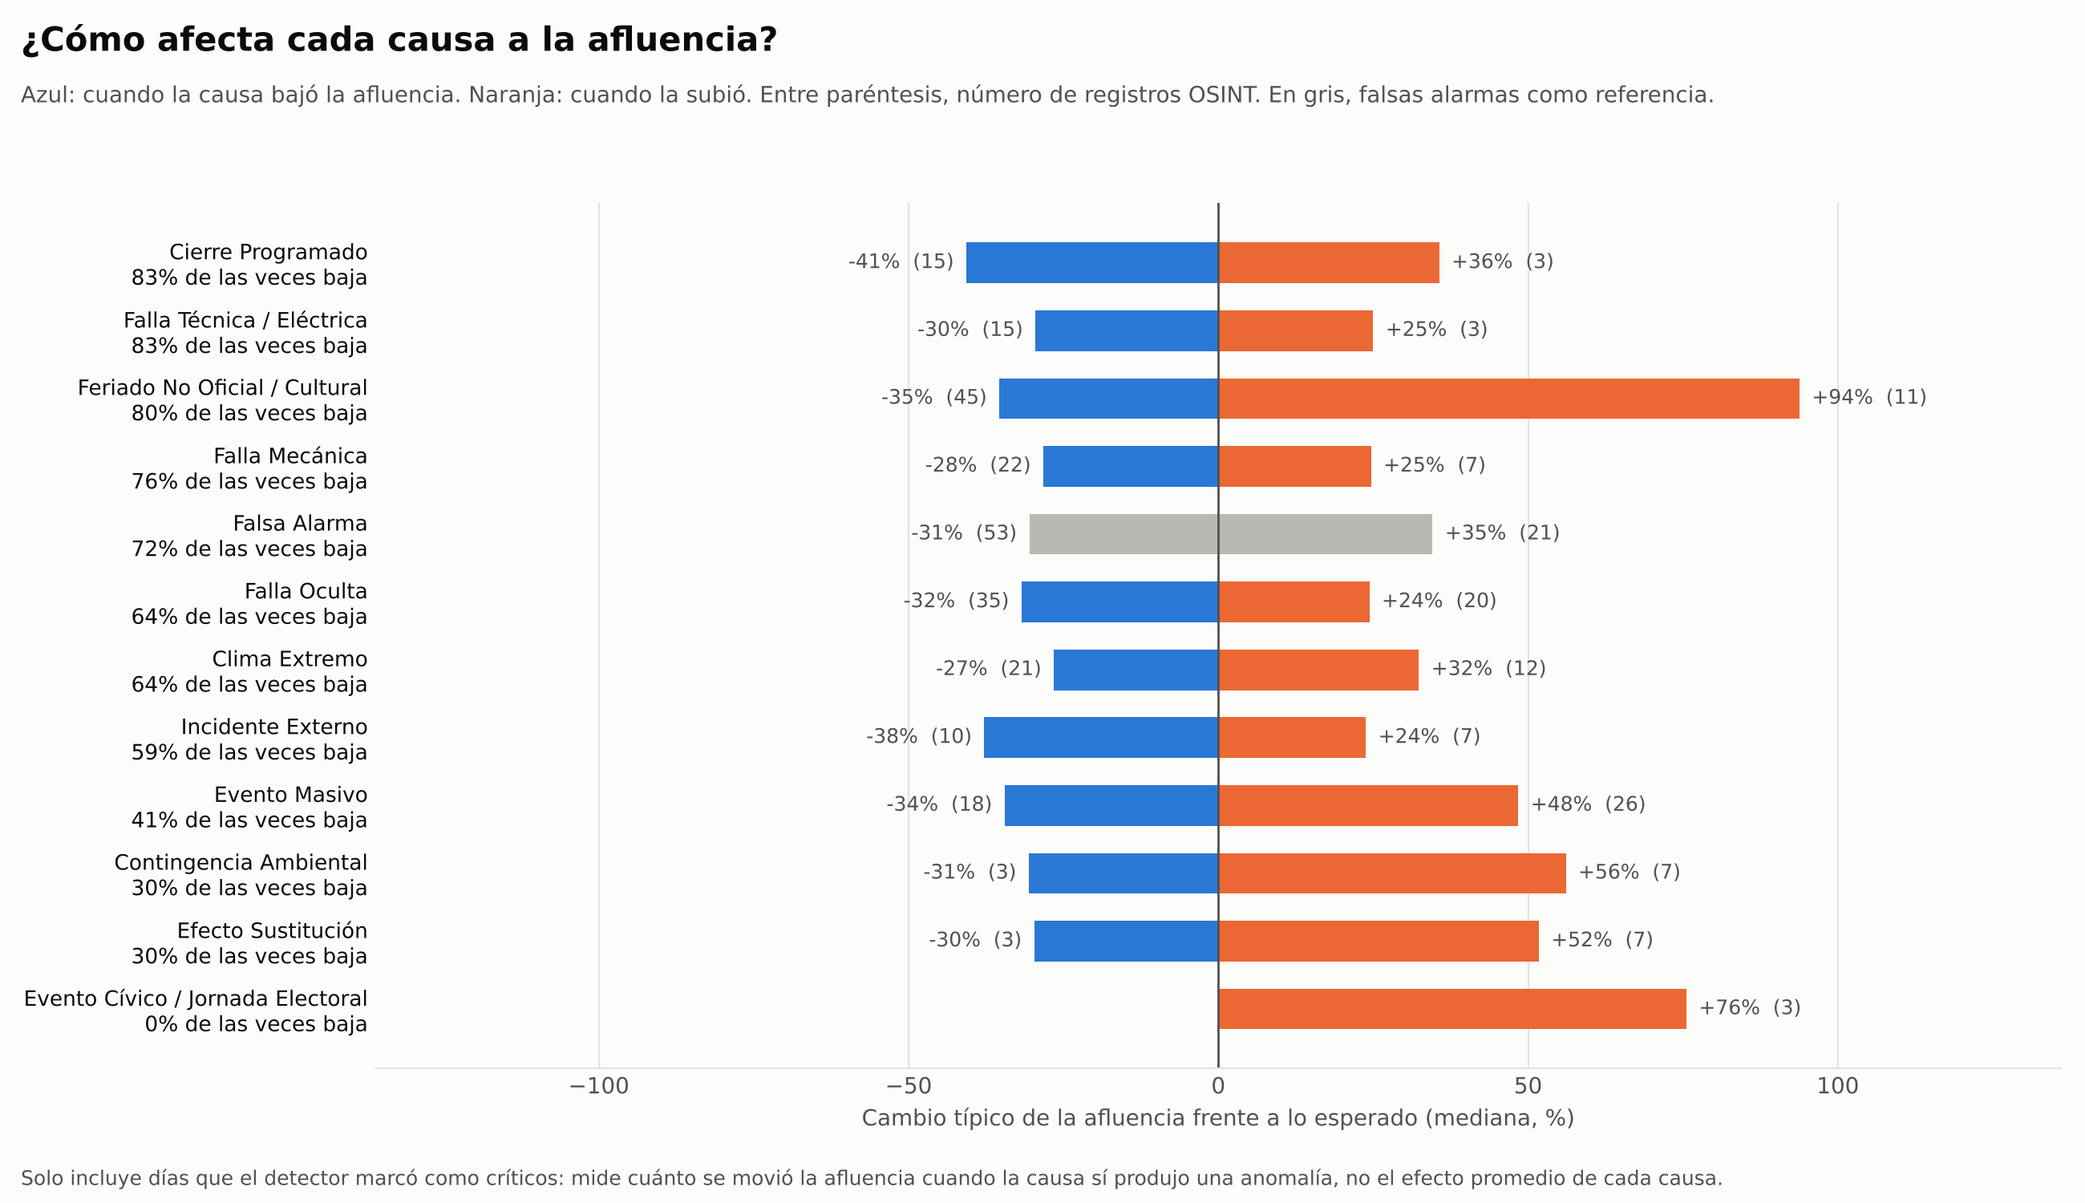
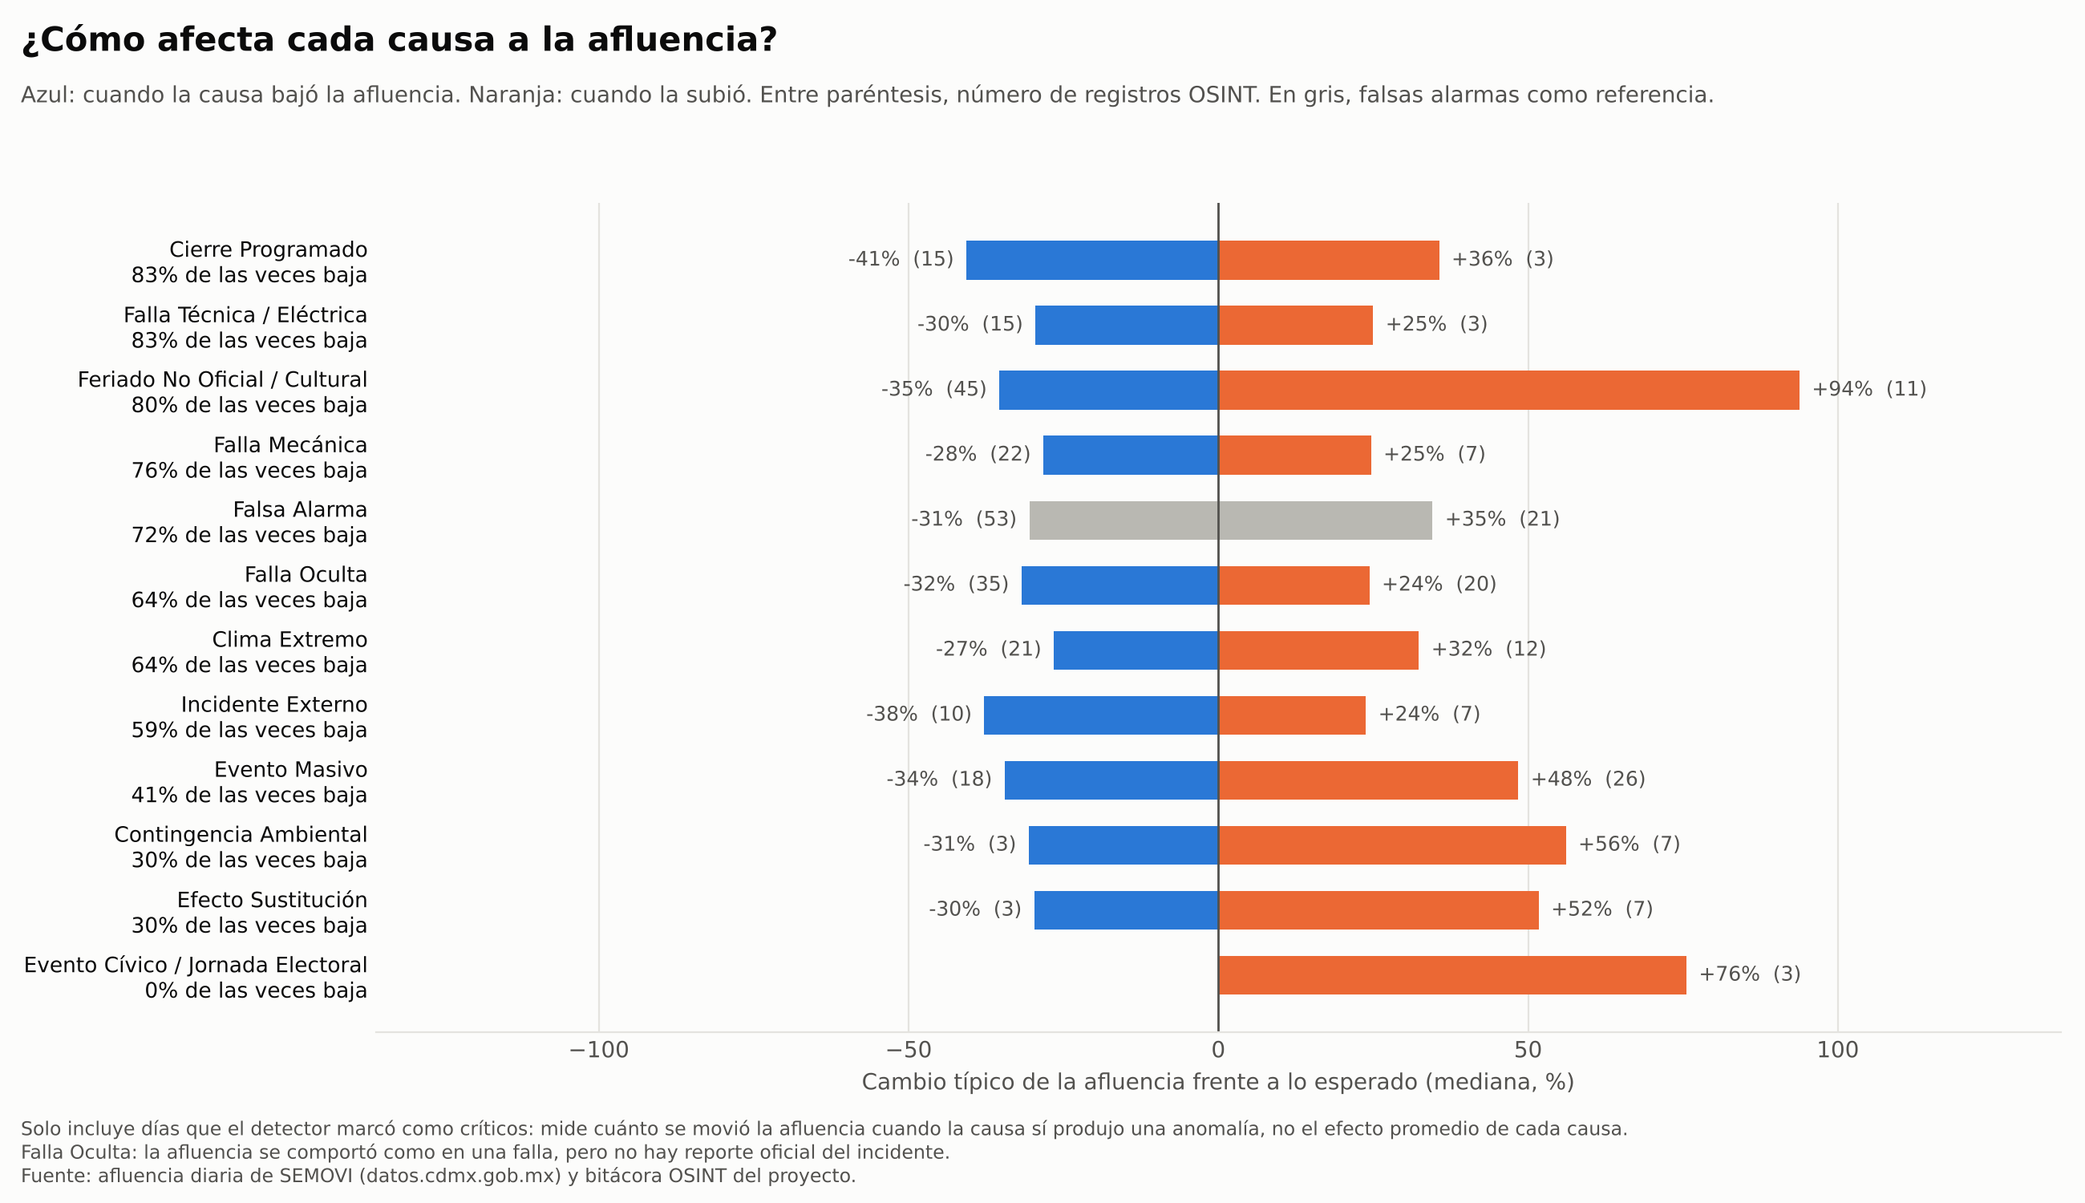
Gráficas: colores de cada línea del Metro y notas para leerlas solas
Las gráficas por línea usan el color de cada línea (la B en verde y gris).
Cada gráfica define en su pie los términos que usa (día crítico, falla
oculta, niveles de riesgo) y la fuente de los datos. La gráfica 05 agrega
la OSINT de la predicción como contraste.

Claude-Session: https://claude.ai/code/session_01TB6ZcTbZgu6jhYpojMa2id

Changed region(s): [[0.0, 0.2453, 0.9346, 1.0], [0.0, 0.184, 0.1869, 0.8587], [0.8723, 0.8587, 0.9035, 0.92]]

diff --git a/estaciones_y_causas/estaciones_y_causas.py b/estaciones_y_causas/estaciones_y_causas.py
@@ -26,6 +26,7 @@ os.makedirs(RES, exist_ok=True)
 
 MASTER = 'master_auditoria_consenso_MAD.csv'
 BITACORA = 'bitacora_investigacion_anomalias_criticas.csv'
+BITACORA_PRED = 'validacion_predicciones/datos/bitacora_validacion_predicciones_final.csv'   # OSINT de los dias en alerta 2026
 TOP_ESTACIONES = 15
 RUIDO = 'Falsa Alarma'   # causa que sirve de referencia: desviaciones sin evento identificado
 
@@ -170,6 +171,9 @@ tipo_causa['pct_de_registros'] = tipo_causa['registros'] / len(osint) * 100
 tipo_causa.round(1).to_csv(f'{RES}/causas_ciclicas_programadas_esporadicas.csv', index=False, encoding='utf-8-sig')
 tipo_linea = pd.crosstab(osint['linea'], osint['tipo_causa']).reindex(columns=TIPOS, fill_value=0)
 tipo_linea.loc['Toda la red'] = tipo_linea.sum()
+pred = pd.read_csv(BITACORA_PRED)
+pred_tipo = pred['Hallazgo_Principal'].str.strip().str.split(' (', regex=False).str[0].map(TIPO_CAUSA)
+tipo_linea.loc['Alertas de la predicción 2026'] = pred_tipo.value_counts().reindex(TIPOS, fill_value=0)
 tipo_linea_pct = tipo_linea.div(tipo_linea.sum(axis=1), axis=0) * 100
 tipo_linea.assign(total=tipo_linea.sum(axis=1)).to_csv(f'{RES}/tipo_de_causa_por_linea.csv', encoding='utf-8-sig')
 print(tipo_linea_pct.round(0).to_string())
@@ -199,10 +203,57 @@ plt.rcParams.update({'font.family': 'DejaVu Sans', 'figure.facecolor': FONDO, 'a
                      'text.color': TINTA, 'axes.labelcolor': TINTA2, 'xtick.color': TINTA2, 'ytick.color': TINTA,
                      'axes.edgecolor': REJILLA})
 
+# Colores de cada linea del Metro (nombres oficiales del STC; hex aproximados). La Linea B es verde y gris.
+COLOR_LINEA = {
+    'linea 1': '#E9468F',   # rosa mexicano
+    'linea 2': '#005EB8',   # azul
+    'linea 3': '#AF9800',   # verde olivo
+    'linea 4': '#6FBAB3',   # verde agua
+    'linea 5': '#FFD100',   # amarillo
+    'linea 6': '#DA291C',   # rojo
+    'linea 7': '#E87722',   # naranja
+    'linea 8': '#009A44',   # verde
+    'linea 9': '#6B3A25',   # cafe
+    'linea a': '#981D97',   # morado
+    'linea b': '#009A44',   # verde (con gris)
+    'linea 12': '#B99E51',  # dorado
+}
+GRIS_LINEA_B = '#A7A8AA'
+
+def barra_linea(ax, y, ancho, linea, alto=0.6, izquierda=0):
+    # Barra horizontal con el color de la linea; la Linea B se dibuja mitad verde, mitad gris.
+    if linea == 'linea b':
+        ax.barh(y + alto / 4, ancho, height=alto / 2, left=izquierda, color=COLOR_LINEA[linea])
+        ax.barh(y - alto / 4, ancho, height=alto / 2, left=izquierda, color=GRIS_LINEA_B)
+    else:
+        ax.barh(y, ancho, height=alto, left=izquierda, color=COLOR_LINEA[linea])
+
+def marcas_linea(ax, posiciones, lineas_fila, x=-0.008, ancho=0.012, alto=0.62):
+    # Cuadro de color de la linea junto a cada etiqueta del eje y.
+    from matplotlib.patches import Rectangle
+    tr = ax.get_yaxis_transform()
+    for yi, linea in zip(posiciones, lineas_fila):
+        if linea not in COLOR_LINEA:
+            continue
+        if linea == 'linea b':
+            arriba, abajo = (yi - alto / 2, yi) if ax.yaxis_inverted() else (yi, yi - alto / 2)   # verde arriba
+            ax.add_patch(Rectangle((x - ancho, arriba), ancho, alto / 2, transform=tr, color=COLOR_LINEA[linea], clip_on=False))
+            ax.add_patch(Rectangle((x - ancho, abajo), ancho, alto / 2, transform=tr, color=GRIS_LINEA_B, clip_on=False))
+        else:
+            ax.add_patch(Rectangle((x - ancho, yi - alto / 2), ancho, alto, transform=tr, color=COLOR_LINEA[linea], clip_on=False))
+    ax.tick_params(axis='y', pad=22)
+
 def limpiar_ejes(ax, ejes=('top', 'right', 'left')):
     for s in ejes:
         ax.spines[s].set_visible(False)
     ax.tick_params(length=0)
+
+DEF_CRITICO = 'Día crítico: Prophet y MAD coinciden en que la afluencia de la estación fue atípica (no incluye cierres).'
+DEF_OCULTA = 'Falla Oculta: la afluencia se comportó como en una falla, pero no hay reporte oficial del incidente.'
+FUENTE = 'Fuente: afluencia diaria de SEMOVI (datos.cdmx.gob.mx) y bitácora OSINT del proyecto.'
+
+def notas(fig, *lineas_texto):
+    fig.text(0.01, 0.012, '\n'.join(lineas_texto), fontsize=8.5, color=TINTA2, va='bottom')
 
 periodo = f"{pd.to_datetime(criticas['fecha']).min():%Y} a {pd.to_datetime(criticas['fecha']).max():%m/%Y}"
 
@@ -210,7 +261,8 @@ periodo = f"{pd.to_datetime(criticas['fecha']).min():%Y} a {pd.to_datetime(criti
 l = lineas.iloc[::-1]
 fig, ax = plt.subplots(figsize=(12, 7))
 y = np.arange(len(l))
-ax.barh(y, l['pasajeros_afectados_por_estacion'] / 1000, height=0.6, color=AZUL)
+for yi, (linea, f) in zip(y, l.iterrows()):
+    barra_linea(ax, yi, f['pasajeros_afectados_por_estacion'] / 1000, linea)
 for yi, (_, f) in zip(y, l.iterrows()):
     ax.text(f['pasajeros_afectados_por_estacion'] / 1000 + 6, yi,
             f"{f['dias_criticos']:.0f} días críticos · {f['pct_falsa_alarma_osint']:.0f}% falsas alarmas · causa principal: {f['causa_principal_osint']}",
@@ -223,9 +275,9 @@ limpiar_ejes(ax)
 fig.suptitle('¿Qué líneas son más conflictivas?', fontsize=15, fontweight='bold', x=0.01, ha='left')
 fig.text(0.01, 0.905, f'Anomalías críticas del detector, {periodo}. Se divide entre el número de estaciones para comparar líneas de distinto tamaño.',
          fontsize=10, color=TINTA2)
-fig.text(0.01, 0.015, 'Falsas alarmas y causa principal según la OSINT de la línea; la causa principal no cuenta las falsas alarmas.',
-         fontsize=9, color=TINTA2)
-fig.tight_layout(rect=(0, 0.03, 1, 0.9))
+notas(fig, 'Falsas alarmas y causa principal según la OSINT de cada línea; la causa principal no cuenta las falsas alarmas.',
+      DEF_CRITICO, DEF_OCULTA, FUENTE)
+fig.tight_layout(rect=(0, 0.09, 1, 0.9))
 fig.savefig(f'{IMG}/01_lineas_conflictivas.png', dpi=200)
 plt.close(fig)
 
@@ -243,13 +295,15 @@ ax.set_xticks(range(t.shape[1]))
 ax.set_xticklabels([textwrap.fill(c, 13) for c in t.columns], fontsize=9)
 ax.set_yticks(range(t.shape[0]))
 ax.set_yticklabels([f"{nombre_linea(i)}  (n = {lineas.loc[i, 'registros_osint']:.0f})" for i in t.index], fontsize=10)
+marcas_linea(ax, range(t.shape[0]), t.index, x=-0.004, ancho=0.008, alto=0.8)
 ax.set_xticks(np.arange(-.5, t.shape[1], 1), minor=True); ax.set_yticks(np.arange(-.5, t.shape[0], 1), minor=True)
 ax.grid(which='minor', color=FONDO, linewidth=2); ax.tick_params(which='both', length=0)
 for s in ax.spines.values(): s.set_visible(False)
 fig.suptitle('¿Por qué causas? Reparto de causas dentro de cada línea', fontsize=15, fontweight='bold', x=0.01, ha='left')
 fig.text(0.01, 0.92, f'Investigación OSINT de {len(osint)} anomalías críticas (muestra proporcional por línea). Cada fila suma 100%; n = registros investigados en la línea.',
          fontsize=10, color=TINTA2)
-fig.tight_layout(rect=(0, 0, 1, 0.91))
+notas(fig, DEF_OCULTA + ' Falsa Alarma: se investigó y no se encontró causa.', FUENTE)
+fig.tight_layout(rect=(0, 0.05, 1, 0.91))
 fig.savefig(f'{IMG}/02_causas_por_linea.png', dpi=200)
 plt.close(fig)
 
@@ -257,8 +311,9 @@ plt.close(fig)
 e = estaciones.head(TOP_ESTACIONES).iloc[::-1]
 fig, ax = plt.subplots(figsize=(13, 8))
 y = np.arange(len(e))
-ax.barh(y, e['pasajeros_en_caidas'] / 1e6, height=0.6, color=AZUL, label='Pasajeros de menos (caídas)')
-ax.barh(y, e['pasajeros_en_alzas'] / 1e6, left=e['pasajeros_en_caidas'] / 1e6, height=0.6, color=NARANJA,
+# Caidas y alzas en grises para no confundirse con los colores de las lineas
+ax.barh(y, e['pasajeros_en_caidas'] / 1e6, height=0.6, color='#4a4946', label='Pasajeros de menos (caídas)')
+ax.barh(y, e['pasajeros_en_alzas'] / 1e6, left=e['pasajeros_en_caidas'] / 1e6, height=0.6, color='#bdbcb6',
         label='Pasajeros de más (alzas)')
 for yi, (_, f) in zip(y, e.iterrows()):
     txt = f"{f['dias_criticos']:.0f} días críticos"
@@ -267,6 +322,7 @@ for yi, (_, f) in zip(y, e.iterrows()):
     ax.text(f['pasajeros_afectados'] / 1e6 + 0.02, yi, txt, va='center', fontsize=8.5, color=TINTA2)
 ax.set_yticks(y)
 ax.set_yticklabels([f'{nombre_estacion(est)} ({nombre_linea(lin)})' for lin, est in e.index], fontsize=10)
+marcas_linea(ax, y, [lin for lin, _ in e.index])
 ax.set_xlim(0, e['pasajeros_afectados'].max() / 1e6 * 2.1)
 ax.set_xlabel('Pasajeros afectados en días críticos (millones)')
 ax.xaxis.grid(True, color=REJILLA, linewidth=0.8); ax.set_axisbelow(True)
@@ -276,7 +332,8 @@ fig.suptitle(f'Las {TOP_ESTACIONES} estaciones con más pasajeros afectados por 
 fig.text(0.01, 0.915, f'Detector Prophet + MAD, {periodo}. Entre paréntesis, causas encontradas por la OSINT en esa estación (número de registros).',
          fontsize=10, color=TINTA2)
 fig.legend(loc='upper left', bbox_to_anchor=(0.005, 0.9), ncol=2, frameon=False, fontsize=10)
-fig.tight_layout(rect=(0, 0, 1, 0.86))
+notas(fig, 'Pasajeros afectados: suma de la diferencia entre la afluencia real y la esperada por Prophet en los días críticos.', DEF_CRITICO, DEF_OCULTA, FUENTE)
+fig.tight_layout(rect=(0, 0.08, 1, 0.86))
 fig.savefig(f'{IMG}/03_estaciones_conflictivas.png', dpi=200)
 plt.close(fig)
 
@@ -305,13 +362,13 @@ limpiar_ejes(ax)
 fig.suptitle('¿Cómo afecta cada causa a la afluencia?', fontsize=15, fontweight='bold', x=0.01, ha='left')
 fig.text(0.01, 0.915, 'Azul: cuando la causa bajó la afluencia. Naranja: cuando la subió. Entre paréntesis, número de registros OSINT. '
          'En gris, falsas alarmas como referencia.', fontsize=10, color=TINTA2)
-fig.text(0.01, 0.015, 'Solo incluye días que el detector marcó como críticos: mide cuánto se movió la afluencia cuando la causa sí produjo una anomalía, '
-         'no el efecto promedio de cada causa.', fontsize=9, color=TINTA2)
-fig.tight_layout(rect=(0, 0.04, 1, 0.9))
+notas(fig, 'Solo incluye días que el detector marcó como críticos: mide cuánto se movió la afluencia cuando la causa sí produjo una anomalía, '
+      'no el efecto promedio de cada causa.', DEF_OCULTA, FUENTE)
+fig.tight_layout(rect=(0, 0.07, 1, 0.9))
 fig.savefig(f'{IMG}/04_efecto_por_causa.png', dpi=200)
 plt.close(fig)
 # ---------- 05. Causas ciclicas, programadas y esporadicas por linea ----------
-t5 = tipo_linea_pct.loc[['Toda la red'] + list(lineas.index)].iloc[::-1]
+t5 = tipo_linea_pct.loc[['Alertas de la predicción 2026', 'Toda la red'] + list(lineas.index)].iloc[::-1]
 COLOR_TIPO = {'Cíclica': AZUL, 'Programada': '#9ec5f4', 'Esporádica': NARANJA, 'Falsa alarma': '#d6d5d0'}
 TINTA_TIPO = {'Cíclica': 'white', 'Programada': TINTA, 'Esporádica': TINTA, 'Falsa alarma': TINTA}
 ETIQ_TIPO = {'Cíclica': 'Cíclica (feriados, lluvias, contingencias)', 'Programada': 'Programada (eventos, cierres, elecciones)',
@@ -327,18 +384,21 @@ for tipo in TIPOS:
             ax.text(li + vi / 2, yi, f'{vi:.0f}%', ha='center', va='center', fontsize=9, color=TINTA_TIPO[tipo])
     izq += v
 ax.set_yticks(y)
-ax.set_yticklabels([('Toda la red' if i == 'Toda la red' else nombre_linea(i)) + f"  (n = {tipo_linea.loc[i].sum()})" for i in t5.index],
+ax.set_yticklabels([(i if not i.startswith('linea') else nombre_linea(i)) + f"  (n = {tipo_linea.loc[i].sum()})" for i in t5.index],
                    fontsize=10)
+marcas_linea(ax, y, t5.index)
 for lbl in ax.get_yticklabels():
-    if lbl.get_text().startswith('Toda'):
+    if not lbl.get_text().startswith('Línea'):
         lbl.set_fontweight('bold')
 ax.set_xlim(0, 100); ax.set_xticks([0, 25, 50, 75, 100]); ax.set_xticklabels(['0%', '25%', '50%', '75%', '100%'])
 limpiar_ejes(ax, ('top', 'right', 'left', 'bottom'))
 fig.suptitle('¿Qué parte de las anomalías se puede prevenir?', fontsize=15, fontweight='bold', x=0.01, ha='left')
-fig.text(0.01, 0.905, 'Causas de la OSINT histórica agrupadas por si se repiten con el calendario, se anuncian antes o son imprevistas. '
+fig.text(0.01, 0.905, 'Causas encontradas por la OSINT, agrupadas por si se repiten con el calendario, se anuncian antes o son imprevistas. '
          'Líneas ordenadas por pasajeros afectados.', fontsize=10, color=TINTA2)
 fig.legend(loc='upper left', bbox_to_anchor=(0.005, 0.89), ncol=4, frameon=False, fontsize=9.5)
-fig.tight_layout(rect=(0, 0, 1, 0.87))
+notas(fig, 'Histórico: 371 anomalías críticas 2022 a mar-2026. Predicción: 79 días que el modelo XGBoost marcó en alerta, ago a nov 2026.',
+      'Cíclica: se repite con el calendario. Programada: se anuncia con anticipación. Esporádica: no se puede anticipar.', FUENTE)
+fig.tight_layout(rect=(0, 0.07, 1, 0.87))
 fig.savefig(f'{IMG}/05_causas_ciclicas_y_esporadicas.png', dpi=200)
 plt.close(fig)
 print(f'Gráficas guardadas en {IMG}/ y tablas en {RES}/')

diff --git a/validacion_predicciones/validacion_predicciones.py b/validacion_predicciones/validacion_predicciones.py
@@ -194,6 +194,8 @@ MESES = ['Ene', 'Feb', 'Mar', 'Abr', 'May', 'Jun', 'Jul', 'Ago', 'Sep', 'Oct', '
 fin_hist = hist['fecha'].max()
 periodo_hist = f"{hist['fecha'].min().year} a {MESES[fin_hist.month - 1].lower()} {fin_hist.year}"
 
+FUENTE = 'Fuente: bitácoras OSINT del proyecto (búsqueda manual de noticias) y afluencia diaria de SEMOVI (datos.cdmx.gob.mx).'
+
 # ---------- 01. Clasificacion de causas: % del historico vs % de la prediccion ----------
 ch = hist['causa'].value_counts().reindex(orden, fill_value=0)
 cp = pr['causa'].value_counts().reindex(orden, fill_value=0)
@@ -215,7 +217,10 @@ for s in ('top', 'right', 'left'): ax.spines[s].set_visible(False)
 ax.tick_params(axis='y', length=0)
 fig.suptitle('Clasificación de causas (OSINT): histórico vs predicción', fontsize=15, fontweight='bold', x=0.01, ha='left')
 fig.legend(loc='upper left', bbox_to_anchor=(0.005, 0.945), ncol=2, frameon=False, fontsize=10)
-fig.tight_layout(rect=(0, 0, 1, 0.93))
+fig.text(0.01, 0.012, 'Histórico: muestra de las anomalías críticas que detectó el modelo Prophet + MAD. Predicción: muestra de los días que el modelo XGBoost marcó en alerta.\n'
+         'Falsa Alarma: se investigó y no se encontró causa. Falla Oculta: la afluencia se comportó como en una falla, pero no hay reporte oficial.\n' + FUENTE,
+         fontsize=8.5, color=TINTA2, va='bottom')
+fig.tight_layout(rect=(0, 0.07, 1, 0.93))
 fig.savefig(f'{IMG}/01_causas_historico_vs_prediccion.png', dpi=200)
 plt.close(fig)
 
@@ -248,9 +253,10 @@ mapa(a1, th, MESES, f'Anomalías críticas históricas, {periodo_hist}\n(n = {le
 mapa(a2, tp, [MESES[m - 1] for m in meses_pred], f'Alertas de la predicción, 2026\n(n = {len(pr)})', False)
 fig.suptitle('Calendario de riesgo (estacionalidad de anomalías por causa): histórico vs predicción',
              fontsize=15, fontweight='bold', x=0.01, ha='left')
-fig.text(0.01, 0.01, 'Cada celda es el número de registros investigados. Cada panel tiene su propia escala de color (más oscuro = más registros dentro de ese panel).',
-         fontsize=9, color=TINTA2)
-fig.subplots_adjust(left=0.27, right=0.99, top=0.84, bottom=0.12)
+fig.text(0.01, 0.012, 'Cada celda es el número de registros investigados. Cada panel tiene su propia escala de color (más oscuro = más registros dentro de ese panel).\n'
+         'Izquierda: anomalías críticas que ya ocurrieron. Derecha: días que el modelo XGBoost marcó en alerta (meses que el modelo no vio).\n' + FUENTE,
+         fontsize=9, color=TINTA2, va='bottom')
+fig.subplots_adjust(left=0.27, right=0.99, top=0.84, bottom=0.16)
 fig.savefig(f'{IMG}/02_calendario_riesgo_historico_vs_prediccion.png', dpi=200)
 plt.close(fig)
 
@@ -282,9 +288,11 @@ fig.suptitle('¿Qué encontramos en los días que el modelo marcó en alerta?', 
 fig.text(0.01, 0.90, f'Búsqueda manual de noticias (OSINT) en {len(pred)} estación-días en alerta, ago a nov 2026, según el nivel de riesgo que les dio el modelo',
          fontsize=10, color=TINTA2)
 fig.legend(loc='upper left', bbox_to_anchor=(0.005, 0.88), ncol=4, frameon=False, fontsize=10)
-fig.text(0.01, 0.02, f'Los días de riesgo alto son solo {fechas_alto} fechas: 16 de septiembre (Independencia) y 2 de noviembre (Día de Muertos).',
-         fontsize=9, color=TINTA2)
-fig.tight_layout(rect=(0, 0.05, 1, 0.8))
+fig.text(0.01, 0.012, 'Nivel de riesgo según la probabilidad de anomalía crítica que dio el modelo: alto = el 10% de días en alerta con mayor probabilidad, '
+         'medio = el siguiente 15%, bajo = el resto.\n'
+         f'Los días de riesgo alto son solo {fechas_alto} fechas: 16 de septiembre (Independencia) y 2 de noviembre (Día de Muertos).\n' + FUENTE,
+         fontsize=9, color=TINTA2, va='bottom')
+fig.tight_layout(rect=(0, 0.11, 1, 0.8))
 fig.savefig(f'{IMG}/03_osint_por_nivel_de_riesgo.png', dpi=200)
 plt.close(fig)
 
@@ -315,8 +323,10 @@ fig.text(0.01, 0.90, f'Afluencia real (SEMOVI) en {int(g["count"].sum())} estaci
 nota = 'Anormal = anomalía crítica: la afluencia salió del rango esperado y se alejó de su patrón semanal reciente.'
 if alto_16:
     nota += f'\nLos {int(g.loc["A - Alta", "count"])} días de riesgo alto son del 16 de septiembre (Independencia), cuando la afluencia cayó en toda la red.'
-fig.text(0.01, 0.02, nota, fontsize=9, color=TINTA2)
-fig.tight_layout(rect=(0, 0.08, 1, 0.9))
+nota += ('\nRiesgo alto, medio y bajo: probabilidad de anomalía crítica que dio el modelo (10% más alto, siguiente 15%, resto).\n'
+         'Fuente: afluencia diaria de SEMOVI (datos.cdmx.gob.mx).')
+fig.text(0.01, 0.012, nota, fontsize=9, color=TINTA2, va='bottom')
+fig.tight_layout(rect=(0, 0.14, 1, 0.9))
 fig.savefig(f'{IMG}/04_afluencia_real_por_nivel_de_riesgo.png', dpi=200)
 plt.close(fig)
 print(f'Gráficas guardadas en {IMG}/ y tablas en {RES}/')

diff --git a/estaciones_y_causas/ANALISIS.md b/estaciones_y_causas/ANALISIS.md
@@ -156,6 +156,11 @@ La ciclicidad se ve en los datos:
   - El 8-mar tiene días críticos los cinco años (2022 a 2026), repartidos en 22 estaciones. Coincide con la marcha del 8M: un evento masivo
     que además es cíclico.
   - Una fecha única como el 11-jun-2026 (inauguración del Mundial, 153 estaciones) no cuenta como recurrente.
+- **Histórico vs predicción.** La clasificación se hace con la OSINT histórica, porque cubre cuatro
+  años y es una muestra proporcional de todas las anomalías críticas. La OSINT de 2026 solo cubre tres
+  meses y viene de días que el modelo eligió. Como contraste, en esos días 76% de las causas fueron
+  cíclicas o programadas (53% y 23%) y solo 14% esporádicas. Eso es lo esperado: el modelo usa el
+  calendario, así que anticipa bien lo cíclico y casi no ve lo esporádico.
 - **Por línea.** Casi la mitad de las anomalías de la red (45%) tienen causa cíclica o programada,
   es decir, prevenible. La Línea 9 es la excepción, con 60% esporádicas, sobre todo fallas sin reporte.
 
